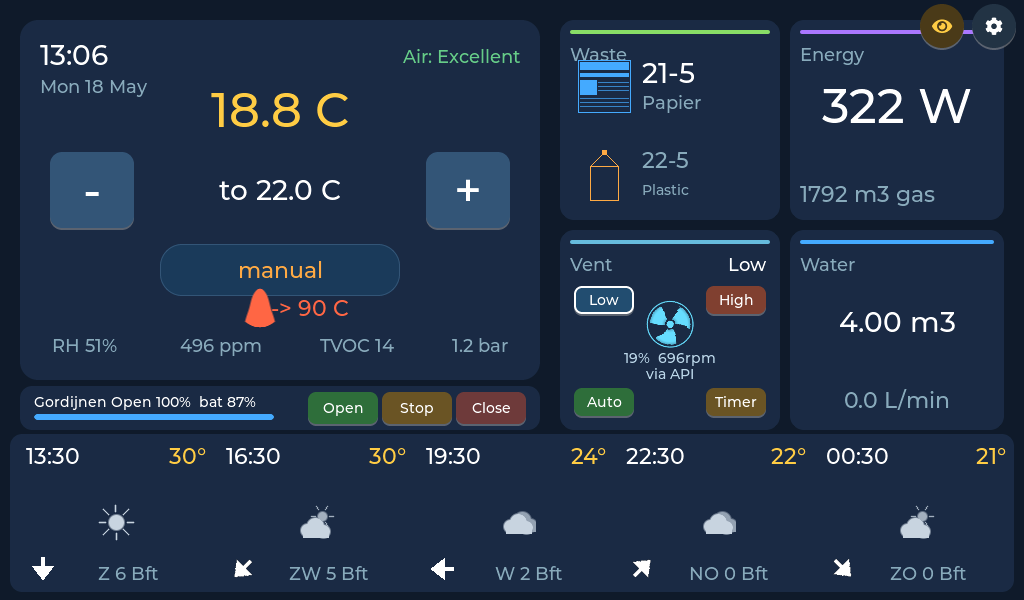
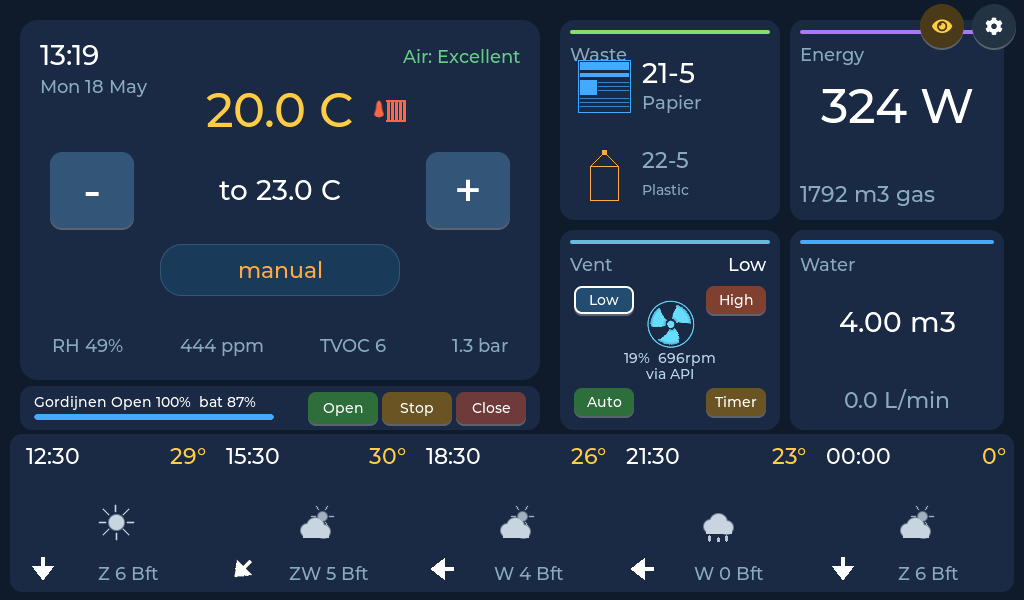
Home + heater-detail use the radiator+flame glyph, drop redundant text
- Home tile burner indicator: replace the small plain flame with the
  radiator+flame icon next to the indoor temperature, identical placement
  to the dim and heater-detail screens
- Drop the "Heating -> 90 C (flow X)" status text on the heater detail
  screen — the icon carries the meaning and the right-column Flow/Return
  panel has the temps. Status line now reads only "Heating"/"Hot water"/
  "Boiler idle"
- Hide the redundant left-column flame/faucet/drop icons on heater detail
- Re-snap home.png + dim.png after the visual changes

diff --git a/lvgl_ui_recovered/src/screen_thermostat.c b/lvgl_ui_recovered/src/screen_thermostat.c
@@ -84,40 +84,24 @@ static void refresh_cb(lv_timer_t * t) {
     float flow_t = (toon_state.boiler_out_temp > 0)
                        ? toon_state.boiler_out_temp
                        : toon_state.boiler_temp;
+    /* Status line — short word only ("Heating" / "Hot water" / "Boiler idle").
+     * The radiator+flame glyph next to the indoor temp carries the visual,
+     * and the right-column "CH water Flow … Return …" panel has the temps.
+     * The old left-side flame/faucet/drop icons are now redundant — kept as
+     * widgets but always hidden. */
     if (toon_state.burner_on) {
-        /* "Heating  → 90 C  (flow 65 C)" — the arrow target is the boiler
-         * water setpoint happ_thermstat is asking for, the parens value is
-         * the actual flow temp coming back. */
-        if (toon_state.ch_setpoint > 0)
-            lv_label_set_text_fmt(lbl_burner,
-                "Heating  -> %.0f C  (flow %.1f C)",
-                toon_state.ch_setpoint, flow_t);
-        else
-            lv_label_set_text_fmt(lbl_burner, "Heating  (flow %.1f C)",
-                                  flow_t);
+        lv_label_set_text(lbl_burner, "Heating");
         lv_obj_set_style_text_color(lbl_burner, lv_color_hex(0xff6644), 0);
-        lv_obj_clear_flag(img_flame,  LV_OBJ_FLAG_HIDDEN);
-        lv_obj_add_flag(img_faucet, LV_OBJ_FLAG_HIDDEN);
-        lv_obj_add_flag(img_drop,   LV_OBJ_FLAG_HIDDEN);
     } else if (toon_state.dhw_on) {
-        lv_label_set_text_fmt(lbl_burner, "Hot water  (flow %.1f C)", flow_t);
+        lv_label_set_text(lbl_burner, "Hot water");
         lv_obj_set_style_text_color(lbl_burner, lv_color_hex(0x44aaff), 0);
-        lv_obj_add_flag(img_flame, LV_OBJ_FLAG_HIDDEN);
-        lv_obj_clear_flag(img_faucet, LV_OBJ_FLAG_HIDDEN);
-        lv_obj_clear_flag(img_drop,   LV_OBJ_FLAG_HIDDEN);
-    } else if (flow_t > 0) {
-        lv_label_set_text_fmt(lbl_burner, "Boiler idle  (flow %.1f C)", flow_t);
-        lv_obj_set_style_text_color(lbl_burner, lv_color_hex(0x88aabb), 0);
-        lv_obj_add_flag(img_flame,  LV_OBJ_FLAG_HIDDEN);
-        lv_obj_add_flag(img_faucet, LV_OBJ_FLAG_HIDDEN);
-        lv_obj_add_flag(img_drop,   LV_OBJ_FLAG_HIDDEN);
     } else {
         lv_label_set_text(lbl_burner, "Boiler idle");
         lv_obj_set_style_text_color(lbl_burner, lv_color_hex(0x88aabb), 0);
-        lv_obj_add_flag(img_flame,  LV_OBJ_FLAG_HIDDEN);
-        lv_obj_add_flag(img_faucet, LV_OBJ_FLAG_HIDDEN);
-        lv_obj_add_flag(img_drop,   LV_OBJ_FLAG_HIDDEN);
     }
+    lv_obj_add_flag(img_flame,  LV_OBJ_FLAG_HIDDEN);
+    lv_obj_add_flag(img_faucet, LV_OBJ_FLAG_HIDDEN);
+    lv_obj_add_flag(img_drop,   LV_OBJ_FLAG_HIDDEN);
 
     /* CH water inlet/outlet temps. Flow falls back to the boiler
        TemperatureSensor (always present) if the boilerTemps query hasn't

diff --git a/lvgl_ui_recovered/src/screen_home.c b/lvgl_ui_recovered/src/screen_home.c
@@ -409,27 +409,19 @@ static void refresh_cb(lv_timer_t * t) {
     else
         lv_obj_set_style_text_color(lbl_t_program, lv_color_hex(COL_TEXT_DIM), 0);
 
-    /* Drop the "heating" / "hot water" / "idle" word — the flame / faucet
-     * icons say it more clearly. The label is reused to print just the CH
-     * target temp when the boiler is firing ("-> 90 C"); it stays empty
-     * for DHW (the faucet icon is sufficient) and for idle. */
+    /* Pure-icon burner indicator next to the big indoor-temp number. No
+     * "-> 90 C" text — the radiator+flame glyph carries the meaning, same
+     * style as the dim and heater-detail screens. */
+    lv_label_set_text(lbl_t_burner, "");
     if (toon_state.burner_on) {
-        if (toon_state.ch_setpoint > 0)
-            lv_label_set_text_fmt(lbl_t_burner, "-> %.0f C",
-                                  toon_state.ch_setpoint);
-        else
-            lv_label_set_text(lbl_t_burner, "");
-        lv_obj_set_style_text_color(lbl_t_burner, lv_color_hex(COL_BURNER_RED), 0);
         lv_obj_clear_flag(tile_img_flame,  LV_OBJ_FLAG_HIDDEN);
         lv_obj_add_flag(tile_img_faucet, LV_OBJ_FLAG_HIDDEN);
         lv_obj_add_flag(tile_img_drop,   LV_OBJ_FLAG_HIDDEN);
     } else if (toon_state.dhw_on) {
-        lv_label_set_text(lbl_t_burner, "");
         lv_obj_add_flag(tile_img_flame, LV_OBJ_FLAG_HIDDEN);
         lv_obj_clear_flag(tile_img_faucet, LV_OBJ_FLAG_HIDDEN);
         lv_obj_clear_flag(tile_img_drop,   LV_OBJ_FLAG_HIDDEN);
     } else {
-        lv_label_set_text(lbl_t_burner, "");
         lv_obj_add_flag(tile_img_flame,  LV_OBJ_FLAG_HIDDEN);
         lv_obj_add_flag(tile_img_faucet, LV_OBJ_FLAG_HIDDEN);
         lv_obj_add_flag(tile_img_drop,   LV_OBJ_FLAG_HIDDEN);
@@ -1094,12 +1086,15 @@ lv_obj_t * screen_home_create(void) {
      * Native 32×40 source; render at full size (zoom 256) so the symbol
      * reads at a glance. Flame sits left of the target-temp label, faucet
      * & drop pair on the left for DHW. */
+    /* Icons sit to the right of the big indoor-temp label (lbl_t_temp at
+     * CENTER (0, -90), 48-pt font ≈ 150 px wide). Same placement style
+     * as dim and heater-detail screens. */
     tile_img_flame = lv_img_create(th);
-    lv_img_set_src(tile_img_flame, &icon_flame);
+    lv_img_set_src(tile_img_flame, &icon_radiator);
     lv_img_set_zoom(tile_img_flame, 256);
     lv_obj_set_style_img_recolor(tile_img_flame, lv_color_hex(COL_BURNER_RED), 0);
     lv_obj_set_style_img_recolor_opa(tile_img_flame, 255, 0);
-    lv_obj_align(tile_img_flame, LV_ALIGN_BOTTOM_MID, -20, -32);
+    lv_obj_align(tile_img_flame, LV_ALIGN_CENTER, 110, -90);
     lv_obj_add_flag(tile_img_flame, LV_OBJ_FLAG_HIDDEN);
 
     tile_img_faucet = lv_img_create(th);
@@ -1107,15 +1102,15 @@ lv_obj_t * screen_home_create(void) {
     lv_img_set_zoom(tile_img_faucet, 256);
     lv_obj_set_style_img_recolor(tile_img_faucet, lv_color_hex(0xcccccc), 0);
     lv_obj_set_style_img_recolor_opa(tile_img_faucet, 255, 0);
-    lv_obj_align(tile_img_faucet, LV_ALIGN_BOTTOM_MID, -30, -32);
+    lv_obj_align(tile_img_faucet, LV_ALIGN_CENTER, 105, -100);
     lv_obj_add_flag(tile_img_faucet, LV_OBJ_FLAG_HIDDEN);
 
     tile_img_drop = lv_img_create(th);
     lv_img_set_src(tile_img_drop, &icon_drop);
     lv_img_set_zoom(tile_img_drop, 256);
-    lv_obj_set_style_img_recolor(tile_img_drop, lv_color_hex(0xff3333), 0);
+    lv_obj_set_style_img_recolor(tile_img_drop, lv_color_hex(0x66bbff), 0);
     lv_obj_set_style_img_recolor_opa(tile_img_drop, 255, 0);
-    lv_obj_align(tile_img_drop, LV_ALIGN_BOTTOM_MID, -50, -22);
+    lv_obj_align(tile_img_drop, LV_ALIGN_CENTER, 125, -80);
     lv_obj_add_flag(tile_img_drop, LV_OBJ_FLAG_HIDDEN);
 
     /* --- Waste tile: two stacked pickup rows ---

diff --git a/README.md b/README.md
@@ -88,12 +88,10 @@ at the top, weather strip at the bottom.
 ![Dim](docs/screenshots/dim.png)
 
 ### Heater detail
-Boiler-side telemetry — flow + return water temps, modulation level, CH
-setpoint from the stooklijn, water pressure, eCO₂ / TVOC / humidity. The
-`Advanced` button opens a full dump of every OpenTherm DataId currently
-tracked by OTGW.
-
-![Heater detail](docs/screenshots/heater-detail.png)
+Tap the heater tile from home to see boiler-side telemetry — flow + return
+water temps, modulation level, CH setpoint from the stooklijn, water
+pressure, eCO₂ / TVOC / humidity. The `Advanced` button opens a full dump
+of every OpenTherm DataId currently tracked by OTGW.
 
 ### PWA
 Served at `http://<toon>:10081/` from the device itself. Same controls as the